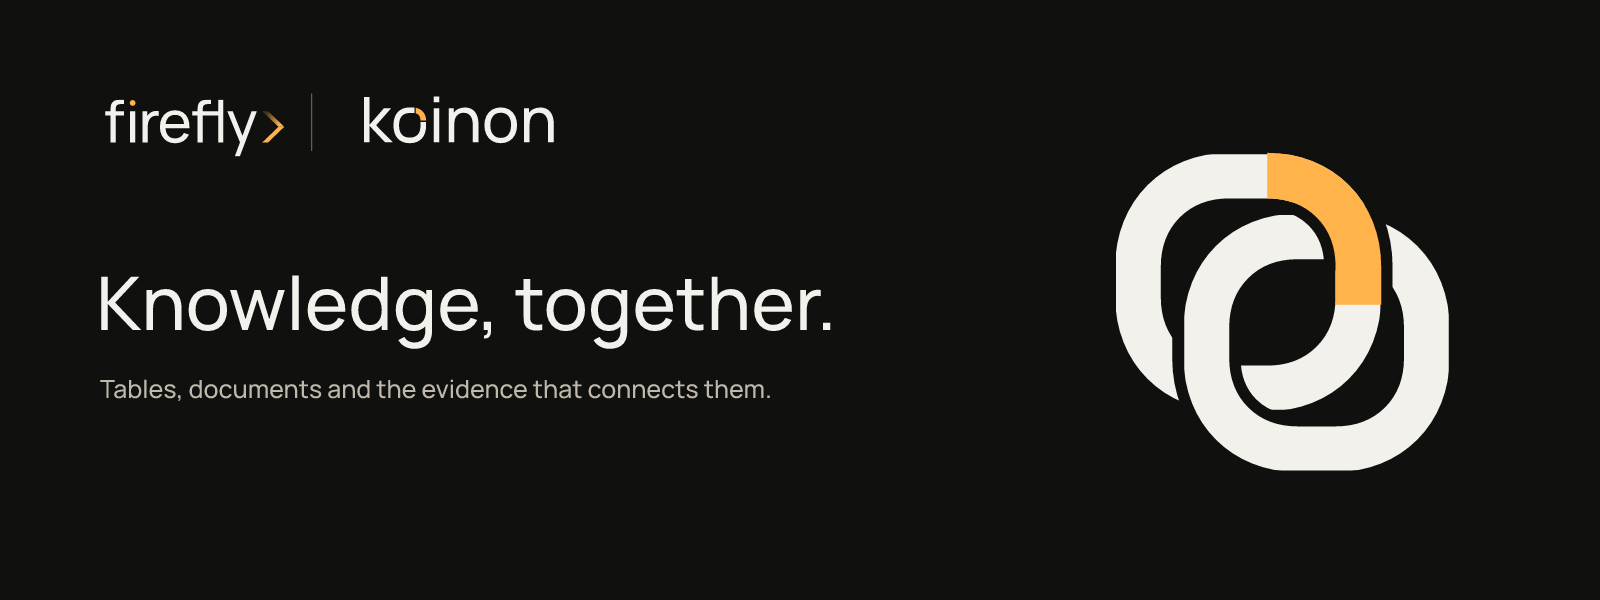
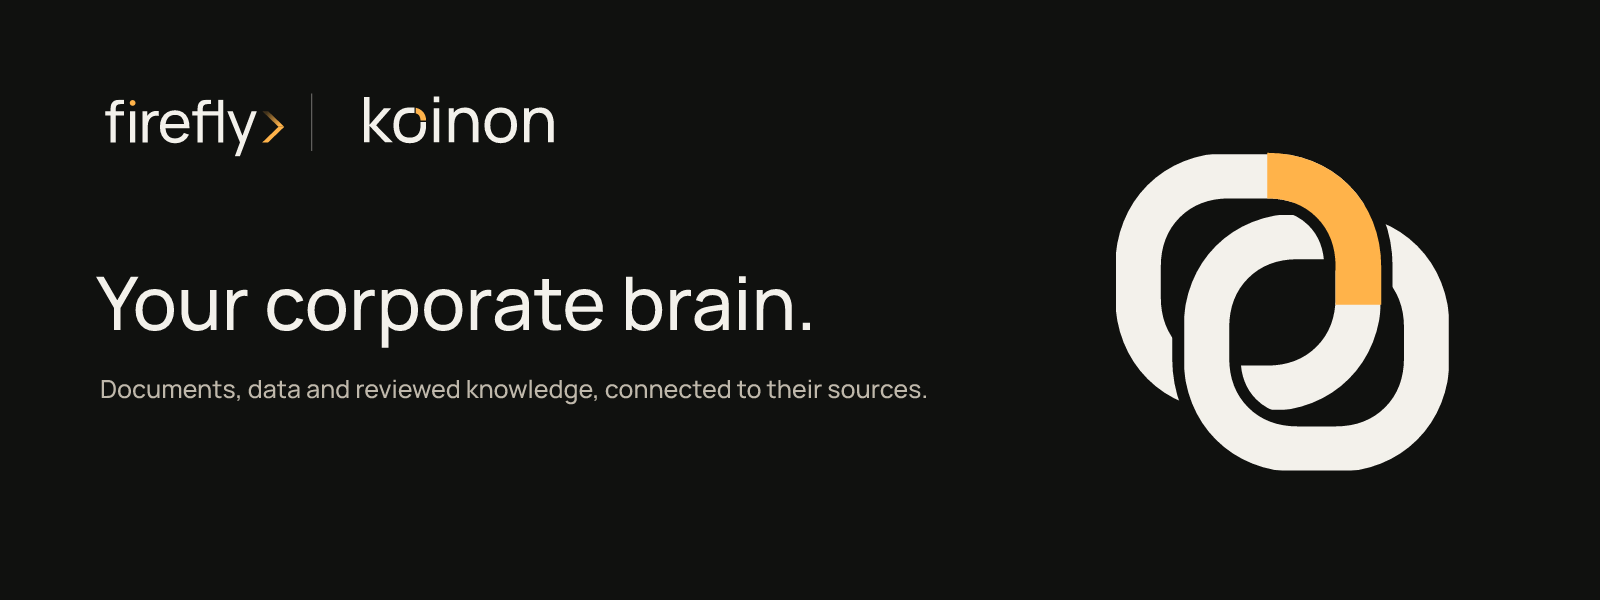
Present koinon as the corporate brain for an organization

Changed region(s): [[0.0625, 0.45, 0.5312, 0.6], [0.0625, 0.63, 0.5938, 0.69]]

diff --git a/brand/index.html b/brand/index.html
@@ -1,2 +1,2 @@
 <!-- Copyright 2026 Firefly Software Foundation SPDX-License-Identifier: Apache-2.0 -->
-<!doctype html><html lang="en"><meta charset="utf-8"><meta name="viewport" content="width=device-width,initial-scale=1"><title>firefly koinon identity</title><style>@font-face{font-family:Manrope;src:url(fonts/manrope-latin-500-normal.woff2)}*{box-sizing:border-box}body{margin:0;background:#f3f1eb;color:#272820;font:16px/1.65 Manrope,Arial,sans-serif}main{max-width:1440px;padding:64px 48px;margin:auto}h1{font-size:clamp(40px,6vw,76px);font-weight:500;line-height:1.08;letter-spacing:-.055em;max-width:900px}h2{font-size:28px;font-weight:500;letter-spacing:-.035em;margin:64px 0 20px}.lead{max-width:750px;font-size:20px}.banner{width:100%;margin:32px 0}.grid{display:grid;grid-template-columns:1fr 1fr;gap:24px}.sample{background:white;height:220px;display:flex;align-items:center;padding:40px}.dark{background:#10110f}.sample img{width:100%;height:auto}article p{display:flex;justify-content:space-between;margin:12px 0}a{color:inherit;text-underline-offset:4px}.swatches{display:grid;grid-template-columns:repeat(5,1fr);gap:16px}.swatch{height:100px;border:1px solid #d8d4ca}.small{max-width:800px;color:#62645b}code{background:#e4e1d9;padding:2px 6px}.heart{display:inline-block;width:14px;height:14px;vertical-align:-2px;fill:currentColor;transform-origin:center;animation:heartbeat 2s ease-in-out infinite}@keyframes heartbeat{0%,28%,100%{transform:scale(1)}8%,20%{transform:scale(1.16)}14%{transform:scale(1)}}@media(prefers-reduced-motion:reduce){.heart{animation:none}}footer{margin-top:64px;padding-top:24px;border-top:1px solid #d8d4ca;font-size:13px;display:flex;align-items:center;flex-wrap:wrap;gap:16px}.footer-credit{display:inline-flex;align-items:center;gap:6px}@media(max-width:650px){main{padding:32px 20px}.grid{grid-template-columns:1fr}.sample{height:160px;padding:24px}.swatches{grid-template-columns:repeat(2,1fr)}}a:focus-visible{outline:3px solid #855414;outline-offset:4px}</style><main><img src="logos/firefly-koinon-lockup-color.svg" width="340" alt="firefly koinon"><h1>Shared knowledge.<br>Clear provenance.</h1><p class="lead">Koinon gives tables, documents and evidence a common home. Its two letter-inspired loops meet through one highlighted link: connected knowledge that retains the identity of its sources.</p><img class="banner" src="repository-banner.svg" alt="Knowledge, together. Product banner"><h2>A Firefly product</h2><p class="small">Use the canonical firefly wordmark, its chevron, a quiet divider and the koinon wordmark. The product symbol stands alone for application icons and compact navigation. Parent geometry remains unchanged.</p><div class="grid"><article><div class="sample "><img src="logos/firefly-koinon-lockup-color.svg" alt="firefly koinon color lockup"/></div><p>color<a href="logos/firefly-koinon-lockup-color.svg" download>SVG</a></p></article><article><div class="sample dark"><img src="logos/firefly-koinon-lockup-reversed.svg" alt="firefly koinon reversed lockup"/></div><p>reversed<a href="logos/firefly-koinon-lockup-reversed.svg" download>SVG</a></p></article><article><div class="sample "><img src="logos/firefly-koinon-lockup-mono-black.svg" alt="firefly koinon mono-black lockup"/></div><p>mono black<a href="logos/firefly-koinon-lockup-mono-black.svg" download>SVG</a></p></article><article><div class="sample dark"><img src="logos/firefly-koinon-lockup-mono-white.svg" alt="firefly koinon mono-white lockup"/></div><p>mono white<a href="logos/firefly-koinon-lockup-mono-white.svg" download>SVG</a></p></article></div><h2>One geometric language</h2><div class="grid"><div class="sample"><img style="max-width:130px;margin:auto" src="logos/koinon-symbol-color.svg" alt="Koinon symbol"></div><div><p>Two loops derived from the two o letters in koinon interlock around a shared context. Their common joint carries the Firefly amber. The first o in the wordmark repeats that joint, giving the name its own recognizable detail. Curves, stroke weight and optical spacing follow the same drawing system.</p><p>Minimum symbol size: 16px. Clear space: one bridge width on every side. Do not distort, add shadows, replace the parent logo or recolor individual letters.</p></div></div><h2>Framework colors</h2><div class="swatches"><div><div class="swatch" style="background:#10110f"></div>charcoal<br><code>#10110f</code></div><div><div class="swatch" style="background:#f3f1eb"></div>paper<br><code>#f3f1eb</code></div><div><div class="swatch" style="background:#ffb34a"></div>amber<br><code>#ffb34a</code></div><div><div class="swatch" style="background:#272820"></div>ink<br><code>#272820</code></div><div><div class="swatch" style="background:#62645b"></div>muted<br><code>#62645b</code></div></div><h2>Manrope, with a purpose</h2><p class="lead">Knowledge, together.</p><p class="small">Use Manrope 400 for reading, 500 for titles and 600–700 for controls. Keep body text at 16px with generous line height. Use amber for the primary action and active evidence, gold for amber-family text on light surfaces. Layout and theme values come from <a href="tokens.json">versioned tokens</a>.</p><h2>Editable and reproducible</h2><p class="small">SVG files use outlined Manrope for reliable logos. Application typography uses licensed font files. Rebuild symbols, lockups, banners and PNG exports with <code>npm ci --prefix tools/brand</code> then <code>npm run build --prefix tools/brand</code>. See <a href="NOTICE.md">brand notice</a> and <a href="OFL.txt">font license</a>.</p><footer><span>© 2026 Firefly Software Foundation</span><span class="footer-credit">Made with <svg class="heart" viewBox="0 0 24 24" role="img" aria-label="love"><path d="M12 21 3.6 12.7C-2 7.1 5.3-.8 12 5.3 18.7-.8 26 7.1 20.4 12.7Z"/></svg></span><span>Apache-2.0</span></footer></main></html>
+<!doctype html><html lang="en"><meta charset="utf-8"><meta name="viewport" content="width=device-width,initial-scale=1"><title>firefly koinon identity</title><style>@font-face{font-family:Manrope;src:url(fonts/manrope-latin-500-normal.woff2)}*{box-sizing:border-box}body{margin:0;background:#f3f1eb;color:#272820;font:16px/1.65 Manrope,Arial,sans-serif}main{max-width:1440px;padding:64px 48px;margin:auto}h1{font-size:clamp(40px,6vw,76px);font-weight:500;line-height:1.08;letter-spacing:-.055em;max-width:900px}h2{font-size:28px;font-weight:500;letter-spacing:-.035em;margin:64px 0 20px}.lead{max-width:750px;font-size:20px}.banner{width:100%;margin:32px 0}.grid{display:grid;grid-template-columns:1fr 1fr;gap:24px}.sample{background:white;height:220px;display:flex;align-items:center;padding:40px}.dark{background:#10110f}.sample img{width:100%;height:auto}article p{display:flex;justify-content:space-between;margin:12px 0}a{color:inherit;text-underline-offset:4px}.swatches{display:grid;grid-template-columns:repeat(5,1fr);gap:16px}.swatch{height:100px;border:1px solid #d8d4ca}.small{max-width:800px;color:#62645b}code{background:#e4e1d9;padding:2px 6px}.heart{display:inline-block;width:14px;height:14px;vertical-align:-2px;fill:currentColor;transform-origin:center;animation:heartbeat 2s ease-in-out infinite}@keyframes heartbeat{0%,28%,100%{transform:scale(1)}8%,20%{transform:scale(1.16)}14%{transform:scale(1)}}@media(prefers-reduced-motion:reduce){.heart{animation:none}}footer{margin-top:64px;padding-top:24px;border-top:1px solid #d8d4ca;font-size:13px;display:flex;align-items:center;flex-wrap:wrap;gap:16px}.footer-credit{display:inline-flex;align-items:center;gap:6px}@media(max-width:650px){main{padding:32px 20px}.grid{grid-template-columns:1fr}.sample{height:160px;padding:24px}.swatches{grid-template-columns:repeat(2,1fr)}}a:focus-visible{outline:3px solid #855414;outline-offset:4px}</style><main><img src="logos/firefly-koinon-lockup-color.svg" width="340" alt="firefly koinon"><h1>Your corporate brain.</h1><p class="lead">koinon brings documents, data and reviewed knowledge together. Find sources, ask questions and review proposed updates before they change what your organization knows.</p><img class="banner" src="repository-banner.svg" alt="Your corporate brain. koinon product banner"><h2>A Firefly product</h2><p class="small">Use the canonical firefly wordmark, its chevron, a quiet divider and the koinon wordmark. The product symbol stands alone for application icons and compact navigation. Parent geometry remains unchanged.</p><div class="grid"><article><div class="sample "><img src="logos/firefly-koinon-lockup-color.svg" alt="firefly koinon color lockup"/></div><p>color<a href="logos/firefly-koinon-lockup-color.svg" download>SVG</a></p></article><article><div class="sample dark"><img src="logos/firefly-koinon-lockup-reversed.svg" alt="firefly koinon reversed lockup"/></div><p>reversed<a href="logos/firefly-koinon-lockup-reversed.svg" download>SVG</a></p></article><article><div class="sample "><img src="logos/firefly-koinon-lockup-mono-black.svg" alt="firefly koinon mono-black lockup"/></div><p>mono black<a href="logos/firefly-koinon-lockup-mono-black.svg" download>SVG</a></p></article><article><div class="sample dark"><img src="logos/firefly-koinon-lockup-mono-white.svg" alt="firefly koinon mono-white lockup"/></div><p>mono white<a href="logos/firefly-koinon-lockup-mono-white.svg" download>SVG</a></p></article></div><h2>One geometric language</h2><div class="grid"><div class="sample"><img style="max-width:130px;margin:auto" src="logos/koinon-symbol-color.svg" alt="koinon symbol"></div><div><p>Two loops derived from the two o letters in koinon interlock around a shared context. Their common joint carries the Firefly amber. The first o in the wordmark repeats that joint, giving the name its own recognizable detail. Curves, stroke weight and optical spacing follow the same drawing system.</p><p>Minimum symbol size: 16px. Clear space: one bridge width on every side. Do not distort, add shadows, replace the parent logo or recolor individual letters.</p></div></div><h2>Framework colors</h2><div class="swatches"><div><div class="swatch" style="background:#10110f"></div>charcoal<br><code>#10110f</code></div><div><div class="swatch" style="background:#f3f1eb"></div>paper<br><code>#f3f1eb</code></div><div><div class="swatch" style="background:#ffb34a"></div>amber<br><code>#ffb34a</code></div><div><div class="swatch" style="background:#272820"></div>ink<br><code>#272820</code></div><div><div class="swatch" style="background:#62645b"></div>muted<br><code>#62645b</code></div></div><h2>Manrope, with a purpose</h2><p class="lead">Your corporate brain.</p><p class="small">Use Manrope 400 for reading, 500 for titles and 600–700 for controls. Keep body text at 16px with generous line height. Use amber for the primary action and active evidence, gold for amber-family text on light surfaces. Layout and theme values come from <a href="tokens.json">versioned tokens</a>.</p><h2>Editable and reproducible</h2><p class="small">SVG files use outlined Manrope for reliable logos. Application typography uses licensed font files. Rebuild symbols, lockups, banners and PNG exports with <code>npm ci --prefix tools/brand</code> then <code>npm run build --prefix tools/brand</code>. See <a href="NOTICE.md">brand notice</a> and <a href="OFL.txt">font license</a>.</p><footer><span>© 2026 Firefly Software Foundation</span><span class="footer-credit">Made with <svg class="heart" viewBox="0 0 24 24" role="img" aria-label="love"><path d="M12 21 3.6 12.7C-2 7.1 5.3-.8 12 5.3 18.7-.8 26 7.1 20.4 12.7Z"/></svg></span><span>Apache-2.0</span></footer></main></html>

diff --git a/frontend/projects/koinon-angular/workbench/src/lib/workbench.html b/frontend/projects/koinon-angular/workbench/src/lib/workbench.html
@@ -2,7 +2,7 @@
 @if(f.initializing()){
  <section class="boot" [attr.aria-label]="'Loading your knowledge'|ffkText">@if(brandLogo()){<img [src]="brandLogo()" [alt]="brand.value().product_name"/>}@else{<strong class="custom-brand-name">{{brand.value().product_name}}</strong>}<ffk-skeleton width="180px" height="10px" [label]="'Connecting your workspace'|ffkText"/></section>
 }@else if(f.authRequired()){
- <section class="sign-in"><header>@if(brandLogo()){<img [src]="brandLogo()" [alt]="brand.value().product_name"/>}@else{<strong class="custom-brand-name">{{brand.value().product_name}}</strong>}<ffk-button variant="quiet" [icon]="theme==='light'?'moon':'sun'" [label]="theme==='light'?'Use dark theme':'Use light theme'" (click)="themeChange.emit(theme==='light'?'dark':'light')"/></header><main><div class="welcome-copy"><span class="eyebrow">{{'A shared home for knowledge'|ffkText}}</span><h1>{{'Your team’s knowledge'|ffkText}}</h1><p>{{'Open the documents and data shared with you.'|ffkText}}</p></div><div class="login-panel">@if(brandSymbol()){<img [src]="brandSymbol()" alt=""/>}<h2>{{i18n.text('Welcome to {product}').replace('{product}',brand.value().product_name)}}</h2><p>Sign in with your organization to open your library.</p>@if(f.context()){<p class="login-message" role="status">{{'Your session has ended. Sign in again to continue.'|ffkText}}</p>}<ffk-button data-full-width variant="primary" icon="chevron" (click)="authenticationRequired.emit()">{{'Sign in'|ffkText}}</ffk-button><small>Your organization manages access to its knowledge.</small></div></main><footer class="workbench-legal"><span class="legal-copyright">© 2026 Firefly Software Foundation</span><span class="legal-credit">{{'Made with'|ffkText}} <span class="beating-heart" role="img" [attr.aria-label]="'love'|ffkText"><ffk-icon name="heart"/></span></span><a href="https://www.apache.org/licenses/LICENSE-2.0" target="_blank" rel="noopener noreferrer">Apache 2.0</a></footer></section>
+ <section class="sign-in"><header>@if(brandLogo()){<img [src]="brandLogo()" [alt]="brand.value().product_name"/>}@else{<strong class="custom-brand-name">{{brand.value().product_name}}</strong>}<ffk-button variant="quiet" [icon]="theme==='light'?'moon':'sun'" [label]="theme==='light'?'Use dark theme':'Use light theme'" (click)="themeChange.emit(theme==='light'?'dark':'light')"/></header><main><div class="welcome-copy"><h1>{{'Your corporate brain'|ffkText}}</h1><p>{{'Find what your organization knows. Ask questions, check the sources and keep knowledge up to date.'|ffkText}}</p></div><div class="login-panel">@if(brandSymbol()){<img [src]="brandSymbol()" alt=""/>}<h2>{{i18n.text('Welcome to {product}').replace('{product}',brand.value().product_name)}}</h2><p>{{'Sign in with your organization account.'|ffkText}}</p>@if(f.context()){<p class="login-message" role="status">{{'Your session has ended. Sign in again to continue.'|ffkText}}</p>}<ffk-button data-full-width variant="primary" icon="chevron" (click)="authenticationRequired.emit()">{{'Sign in'|ffkText}}</ffk-button><small>{{'Your organization manages access to its knowledge.'|ffkText}}</small></div></main><footer class="workbench-legal"><span class="legal-copyright">© 2026 Firefly Software Foundation</span><span class="legal-credit">{{'Made with'|ffkText}} <span class="beating-heart" role="img" [attr.aria-label]="'love'|ffkText"><ffk-icon name="heart"/></span></span><a href="https://www.apache.org/licenses/LICENSE-2.0" target="_blank" rel="noopener noreferrer">Apache 2.0</a></footer></section>
 }@else if(!f.context()){
  <section class="connection-error">@if(brandLogo()){<img [src]="brandLogo()" [alt]="brand.value().product_name"/>}@else{<strong class="custom-brand-name">{{brand.value().product_name}}</strong>}<div class="workbench-error" role="alert"><ffk-icon name="alert"/><span>{{f.error()||'Your organization could not be opened.'}}</span></div><ffk-button (click)="retryConnection()">Try again</ffk-button></section>
  }@else if(invitationToken){

diff --git a/frontend/projects/koinon-angular/src/lib/foundations/spanish.ts b/frontend/projects/koinon-angular/src/lib/foundations/spanish.ts
@@ -208,10 +208,9 @@ export const SPANISH: Readonly<Record<string, string>> = {
   'A shared home for your team’s documents and data.':
     'Un lugar compartido para los documentos y datos de tu equipo.',
   'Keep the knowledge your team needs together.': 'Reúne el conocimiento que necesita tu equipo.',
-  'A shared home for knowledge': 'Un lugar compartido para el conocimiento',
-  'Your team’s knowledge': 'El conocimiento de tu equipo',
-  'Open the documents and data shared with you.':
-    'Abre los documentos y datos compartidos contigo.',
+  'Your corporate brain': 'Tu cerebro corporativo',
+  'Find what your organization knows. Ask questions, check the sources and keep knowledge up to date.':
+    'Encuentra lo que sabe tu organización. Haz preguntas, consulta las fuentes y mantén el conocimiento al día.',
   'Your session has ended. Sign in again to continue.':
     'Tu sesión ha terminado. Vuelve a iniciar sesión para continuar.',
   'People & access': 'Personas y acceso',
@@ -417,8 +416,8 @@ export const SPANISH: Readonly<Record<string, string>> = {
   'Settings sections': 'Secciones de configuración',
   'Show resource': 'Mostrar recurso',
   'Showing the first 500 returned rows.': 'Se muestran las primeras 500 filas devueltas.',
-  'Sign in with your organization to open your library.':
-    'Inicia sesión con tu organización para abrir tu biblioteca.',
+  'Sign in with your organization account.':
+    'Inicia sesión con tu cuenta de la organización.',
   Sort: 'Ordenar',
   'Sort library items': 'Ordenar elementos de la biblioteca',
   Stop: 'Detener',

diff --git a/frontend/projects/koinon-angular/settings/src/identity/identity-preview.html b/frontend/projects/koinon-angular/settings/src/identity/identity-preview.html
@@ -58,8 +58,8 @@
         @if (symbol()) {
           <img class="symbol" [src]="symbol()" alt="" />
         }
-        <h4>{{ 'Your team’s knowledge' | ffkText }}</h4>
-        <p>{{ 'Sign in to open the knowledge shared with you.' | ffkText }}</p>
+        <h4>{{ 'Your corporate brain' | ffkText }}</h4>
+        <p>{{ 'Sign in with your organization account.' | ffkText }}</p>
         <span class="primary">{{ 'Sign in' | ffkText }}<ffk-icon name="chevron" /></span
         ><small>{{ 'Your organization manages access.' | ffkText }}</small>
       </div>

diff --git a/frontend/projects/management/src/index.html b/frontend/projects/management/src/index.html
@@ -9,7 +9,7 @@
     <meta name="theme-color" content="#10110F" />
     <meta
       name="description"
-      content="One shared home for documents, datasets and connected evidence."
+      content="Your corporate brain for documents, data and shared knowledge. Ask questions and trace answers to their sources."
     />
     <link rel="icon" type="image/svg+xml" href="/assets/brand/logos/koinon-symbol-color.svg" />
   </head>

diff --git a/docs/concepts/visual-identity.md b/docs/concepts/visual-identity.md
@@ -1,6 +1,16 @@
 # Visual identity
 
-Koinon uses the Firefly family identity: Manrope, a charcoal and paper palette, and amber accents. The documentation uses the same family lockup as the product: the Firefly wordmark, a divider and the koinon wordmark.
+koinon uses the Firefly family identity: Manrope, a charcoal and paper palette, and amber accents. The documentation uses the same family lockup as the product: the Firefly wordmark, a divider and the koinon wordmark.
+
+## Product positioning
+
+Lead with **Your corporate brain.** The product name remains **koinon**, written in lowercase. The positioning describes its role: bringing organizational documents, datasets and reviewed knowledge together, with sources people can inspect.
+
+Explain that role through concrete actions: find a document, query a dataset, ask a question, inspect its evidence or review a proposed update. Keep the familiar **Library**, **Chat** and **Settings** labels. Integrators can use the same knowledge capabilities through the headless API, typed SDKs or embedded components.
+
+Distinguish reviewed knowledge from a model’s proposal. Proposed changes require human approval; the positioning must not imply that koinon independently decides what the organization knows. Describe access controls and provenance in terms of their actual behavior, and keep runtime qualification statements explicit.
+
+Use the existing linked-o symbol and Firefly family lockup to express the idea. Do not replace them with a brain illustration or change the typography, colors or logo geometry to support the positioning.
 
 ## Logos
 
@@ -24,7 +34,7 @@ Body text uses weight 400. Navigation and headings use stronger weights from the
 | Amber | `#ffb34a` | Brand accent and links on dark surfaces |
 | Gold | `#855414` | Links on light surfaces |
 
-The appearance control switches between light and dark reading surfaces. Keyboard focus, search and the navigation drawer remain available at mobile widths. The footer carries the copyright holders, Apache License 2.0 and a small animated heart. Reduced-motion preferences disable its animation and interface transitions.
+The appearance control switches between light and dark reading surfaces. Keyboard focus, search and the navigation drawer remain available at mobile widths. The footer carries the foundation copyright, Apache License 2.0 and a small animated heart. Reduced-motion preferences disable its animation and interface transitions.
 
 ## Product layout and component boundaries
 

diff --git a/README.md b/README.md
@@ -2,11 +2,15 @@
 
 ![firefly koinon](brand/repository-banner.svg)
 
-Koinon keeps organizational documents and datasets in one knowledge library. People can find sources, maintain content and ask questions with supporting evidence. The backend uses native pyfly for application services, security, data access and agents.
+**Your corporate brain.**
+
+koinon brings documents, datasets and reviewed knowledge into one place so people can find what their organization knows, ask questions and inspect the evidence behind an answer.
+
+Use Library to organize and update sources, Chat to explore knowledge, and Settings to manage access and configuration. Proposed knowledge changes require human approval before they are applied.
 
 Development and integrated qualification are in progress. There is no qualified product release yet. Existing installations continue to operate. Migration notices and repository archiving follow verified capability coverage, a tested migration path and a qualified release.
 
-The API and durable workers run independently of the frontend. Typed Python, TypeScript and Java SDKs let Forge and other products add knowledge capabilities without installing Angular. Hosts that need an interface can use the Angular library or encapsulated custom elements.
+The backend uses pyfly for application services, security, data access and agents. The API and durable workers run independently of the frontend. Typed Python, TypeScript and Java SDKs let Forge and other products add knowledge capabilities without installing Angular. Hosts that need an interface can use the Angular library or encapsulated custom elements.
 
 PostgreSQL stores operational state, access grants, conversations and provenance. OIDC handles sign-in; persisted membership and scoped personal tokens control API access. Documents and datasets keep distinct identities and source bindings.
 

diff --git a/docs/guides/interface-tour.md b/docs/guides/interface-tour.md
@@ -8,6 +8,12 @@ The screenshots show the built interface with **controlled example data**. Names
 
 Sign in through your organization's identity provider. The organization selector in the top navigation determines which organization's library, conversations and settings you are viewing. Choosing an organization does not grant access to it.
 
+koinon presents the product as your corporate brain: a place to find organizational knowledge, ask questions and inspect its sources. The sign-in page uses the installation's configured identity and opens the knowledge available to your account.
+
+[![The desktop sign-in page introduces koinon as your corporate brain](../assets/screenshots/corporate-brain-sign-in-1440.png)](../assets/screenshots/corporate-brain-sign-in-1440.png)
+
+[![The same sign-in experience on a mobile screen](../assets/screenshots/corporate-brain-sign-in-390.png)](../assets/screenshots/corporate-brain-sign-in-390.png)
+
 Open **Library**, select a workspace and follow its projects and folders. The breadcrumb shows your current location. Use the column headers to sort, the folder filter to narrow names, **More filters** for metadata and **Per page** to change the result size. The page controls request the next server page; they do not download the whole repository.
 
 [![A folder with document and dataset rows, filters, sortable columns and pagination](../assets/screenshots/library-folder.png)](../assets/screenshots/library-folder.png)

diff --git a/docs/index.md b/docs/index.md
@@ -1,8 +1,10 @@
-# Knowledge library
+# Your corporate brain.
 
 ![firefly koinon](assets/repository-banner.svg)
 
-Koinon gives an organization one place to find, maintain and ask questions about its knowledge. Documents and datasets share a familiar library while keeping their original sources, access boundaries and evidence.
+koinon brings your organization’s documents, datasets and reviewed knowledge together. Find the source you need, ask a question and inspect the evidence behind the answer. Review proposed updates before they change what the organization knows.
+
+Library keeps sources organized. Chat helps you explore them. Settings gives administrators control over access and configuration. The same knowledge capabilities are available through the headless API, typed SDKs and embedded components.
 
 Take the [visual walkthrough](guides/interface-tour.md) for guided screenshots of configuration and everyday use. Start with the [library guide](guides/library.md) if you use knowledge. Read the [setup guide](guides/administration.md) if you configure the product. Integrators can use the [headless API and SDK](guides/headless.md) or [embed components](guides/embedding.md) inside another product.
 
